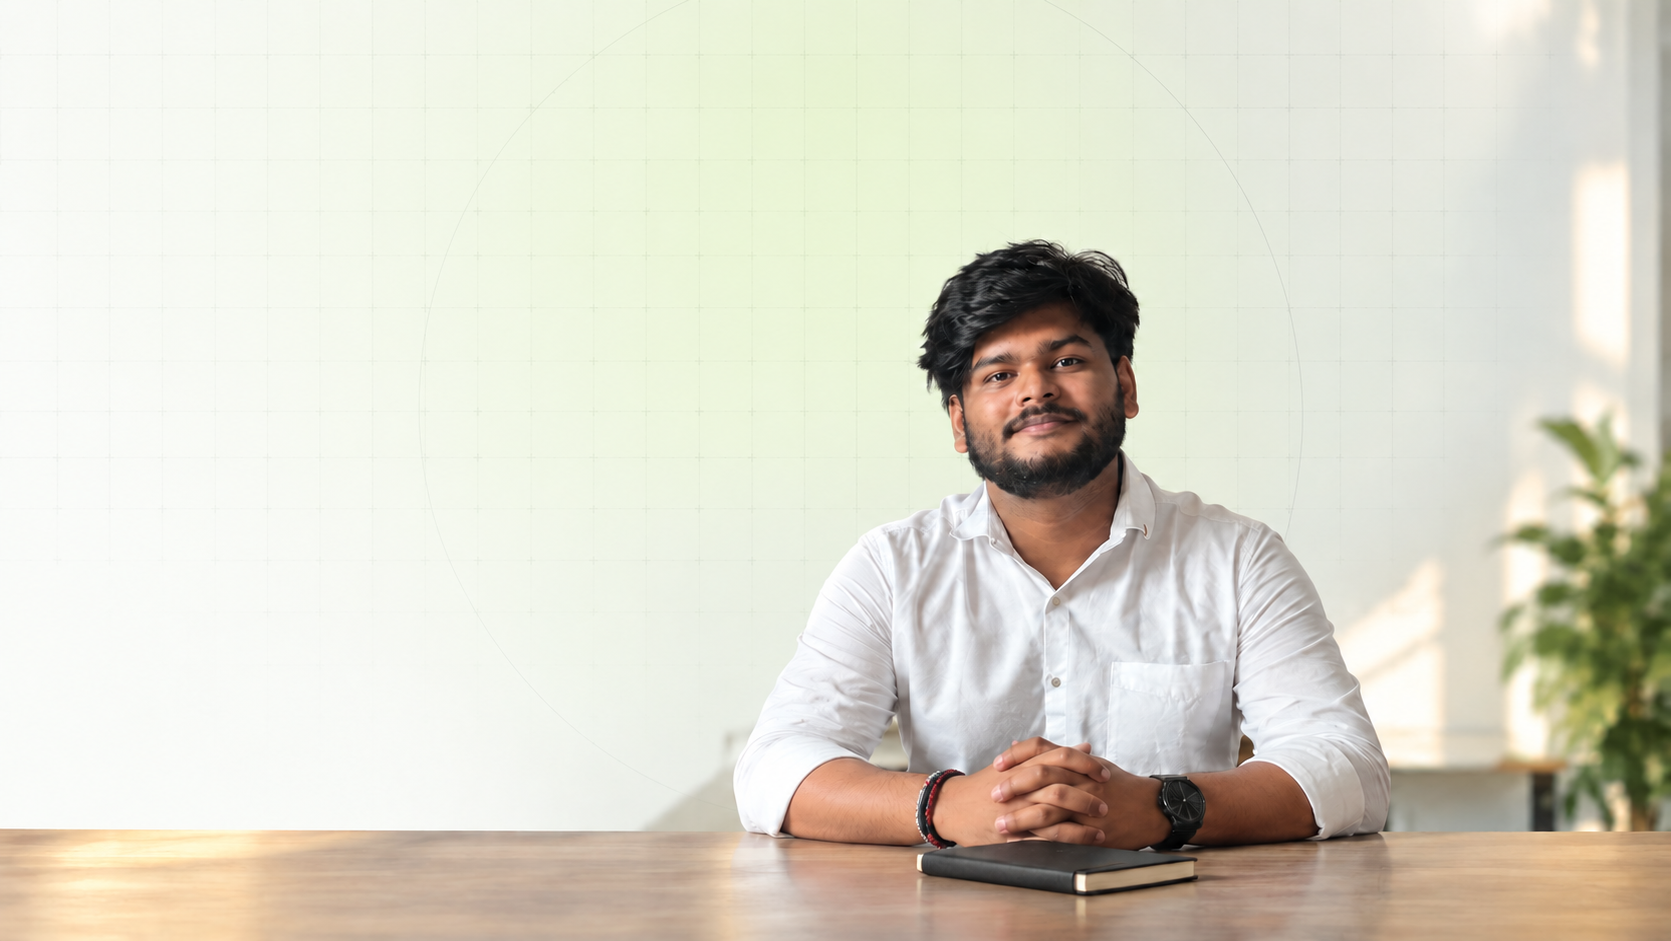
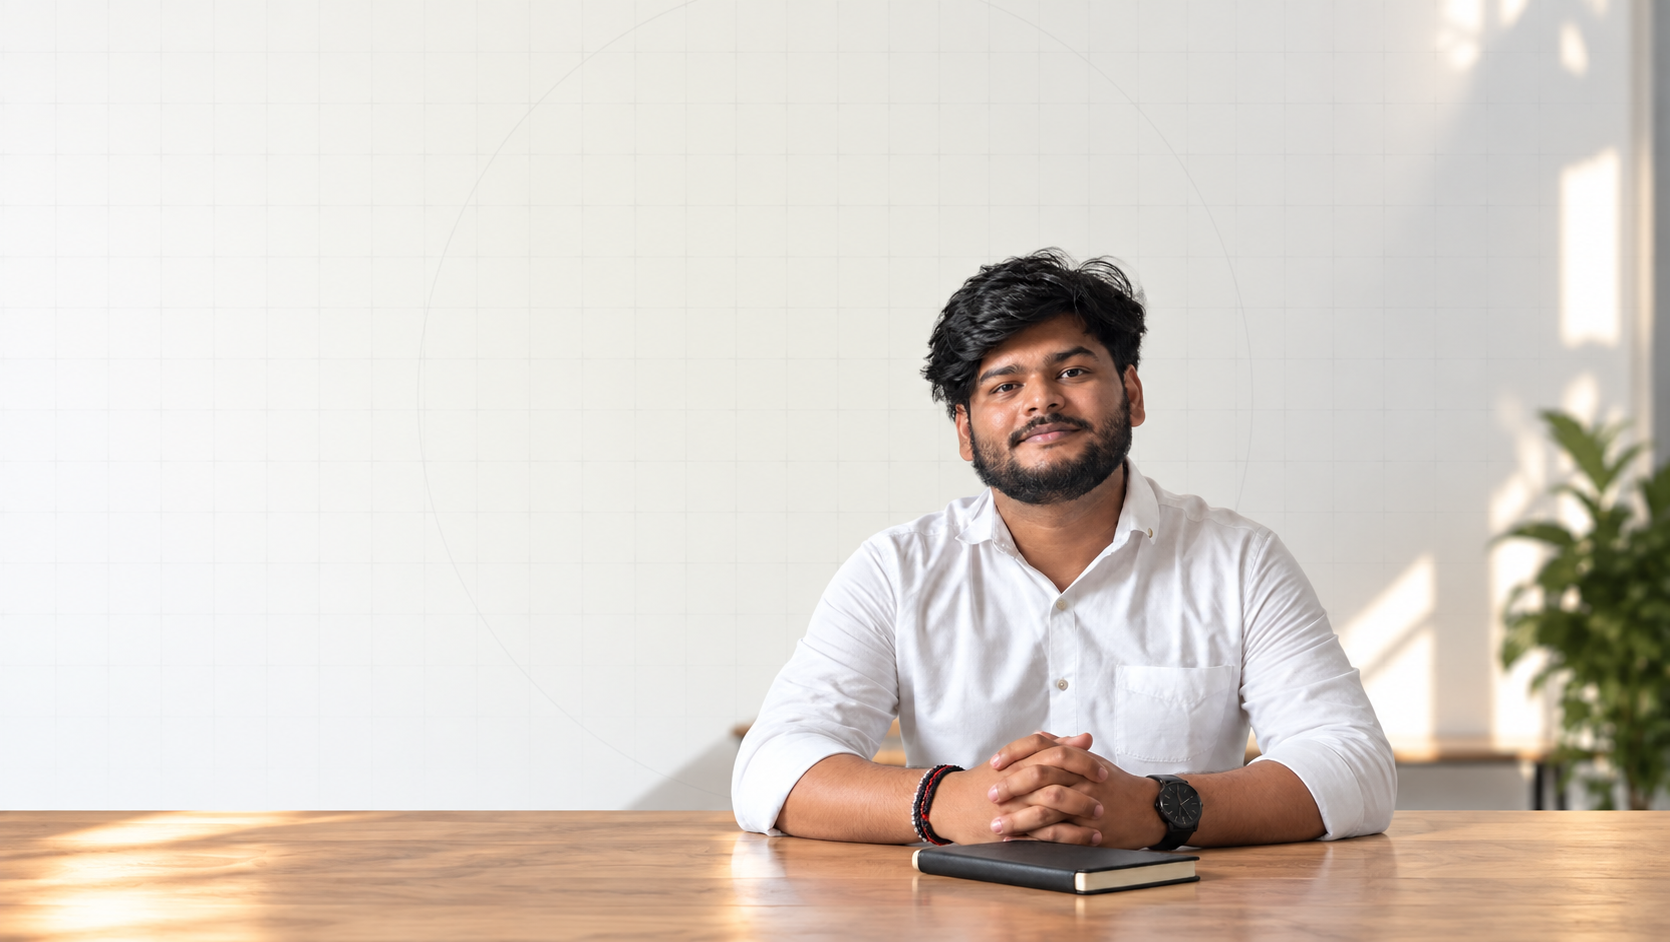
fixed image

Changed region(s): [[0.0, 0.0, 1.0, 1.0], [0.8407, 0.3698, 0.8719, 0.4315], [0.8096, 0.4315, 0.8407, 0.4931]]

diff --git a/src/hooks/useScrollToGallery.js b/src/hooks/useScrollToGallery.js
@@ -34,10 +34,13 @@ const useScrollToGallery = (galleryRef) => {
     const findTrack = () => {
       const section = galleryRef.current;
       if (!section) return null;
-      return section.querySelector('.flex.gap-6, .flex.gap-6.md\\:gap-12, .flex.gap-12, .flex.gap-6.md\\:gap-12.items-start, .flex.gap-12.items-start');
+      return section.querySelector('.flex.gap-6, .flex.gap-12');
     };
 
-    const waitForTrack = (maxMs = 6000) => new Promise((resolve) => {
+    /* The gallery is code-split, so its horizontal track is not in the DOM on
+       the first frame. Waiting for the track itself (rather than a fixed delay)
+       keeps the offset measurement honest. */
+    const waitForTrack = (maxMs = 8000) => new Promise((resolve) => {
       const started = performance.now();
       const existing = findTrack();
       if (existing) { resolve(existing); return; }
@@ -68,11 +71,6 @@ const useScrollToGallery = (galleryRef) => {
       const track = await waitForTrack();
       if (cancelled || !track) return;
 
-      const sectionTop = section.offsetTop;
-      const sectionHeight = section.offsetHeight || window.innerHeight;
-      const offset = Math.min(sectionHeight * 0.3, 300);
-      const targetScrollPosition = sectionTop + offset;
-
       const [gsapModule, { ScrollTrigger }] = await Promise.all([
         import('gsap'),
         import('gsap/ScrollTrigger'),
@@ -83,12 +81,28 @@ const useScrollToGallery = (galleryRef) => {
       gsap.set(track, { x: 0 });
       ScrollTrigger.refresh();
 
-      requestAnimationFrame(() => {
+      /* Every section below the hero is lazy, so the document keeps growing
+         after the gallery mounts. A single scroll would be clamped by whatever
+         height existed at that moment, so re-measure and retry until the
+         browser actually lands on the target. */
+      const attempts = 8;
+      for (let attempt = 0; attempt < attempts; attempt++) {
         if (cancelled) return;
-        smoothScrollTo(targetScrollPosition, () => {
-          ScrollTrigger.refresh();
-        });
-      });
+
+        const target = section.offsetTop + Math.min((section.offsetHeight || window.innerHeight) * 0.3, 300);
+        const maxScroll = Math.max(0, document.documentElement.scrollHeight - window.innerHeight);
+        const reachable = Math.min(target, maxScroll);
+
+        smoothScrollTo(reachable);
+
+        await new Promise((resolve) => setTimeout(resolve, 800));
+        if (cancelled) return;
+
+        if (Math.abs(window.scrollY - reachable) <= 4) break;
+      }
+
+      if (cancelled) return;
+      ScrollTrigger.refresh();
     };
 
     const timer = setTimeout(() => { scrollToGallery(); }, 150);
